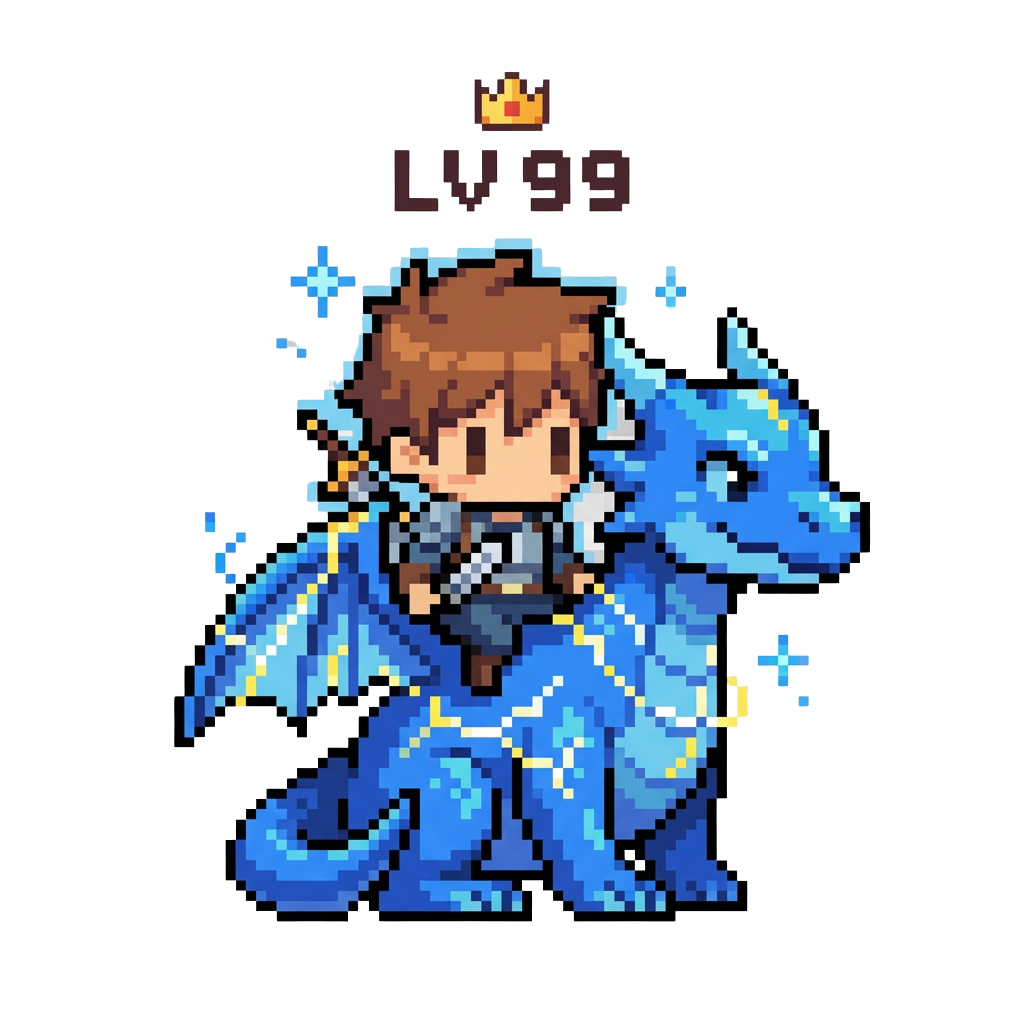
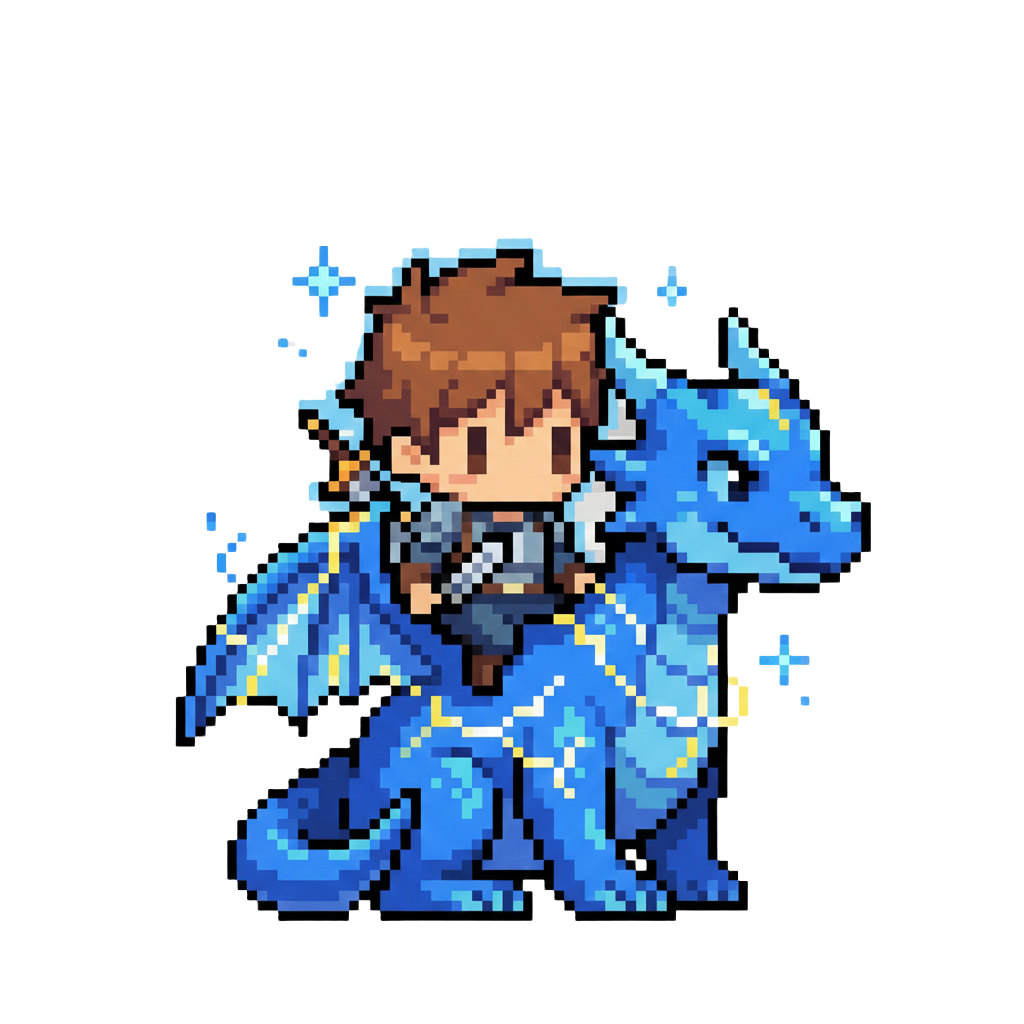
Fix: Lv99ドラゴン誕生時に主人公の装備(靴等)が残る不具合を修正し、専用セリフの出現率を100%に調整

diff --git a/script.js b/script.js
@@ -1298,13 +1298,11 @@ function updateDragonUI() {
     // --- 1. 状態フラグの同期 ---
     if (level < 70) {
         dragon.hatched = false;
-    } else if (level === 99) {
-        dragon.obtained = true;
+        // 自動で obtained = false にする処理も、セーブデータの整合性のために削除するか慎重に扱う。
+        // ここでは、Lv70未満で孵化しているのはおかしいので戻すだけに留める。
     }
 
     // --- 2. クラス管理（ここが重要！） ---
-    // CSSの「.dragon-active」が効くように、ここでクラスを付け替えます。
-    // JS側での style.width や style.bottom の直接指定はすべて削除しました。
     if (wrapper) {
         if (level >= 99 && dragon.hatched) {
             wrapper.classList.add('dragon-active');
@@ -1314,16 +1312,25 @@ function updateDragonUI() {
     }
 
     // --- 3. ビジュアル基本設定 ---
-    if (playerSprite) {
+    const layersContainer = document.querySelector('.player-layers-container');
+
+    if (layersContainer) {
         if (level >= 99 && dragon.hatched) {
-            playerSprite.classList.add('hidden');
+            layersContainer.classList.add('hidden');
         } else {
-            playerSprite.classList.remove('hidden');
+            layersContainer.classList.remove('hidden');
         }
     }
 
-    // --- 4. 各レベル帯の表示ロジック（高い順に判定） ---
+    // --- 4. 各レベル帯の表示ロジック ---
     if (level >= 99) {
+        // dragon.obtained のチェックを確実にする
+        if (!dragon.obtained) {
+            // 万が一持っていないままLv99になった場合の救済
+            dragon.obtained = true;
+        }
+
+        companion.classList.remove('hidden');
         if (!dragon.hatched) {
             executeDragonBirthAnimation();
             return;
@@ -1332,12 +1339,22 @@ function updateDragonUI() {
         dragonImg.src = `./assets/opening_movie/${type}_dragon.png`;
     }
     else if (level >= 90) {
-        dragonImg.src = './assets/opening_movie/egg2.png';
-        if (messageEl) messageEl.textContent = "なんか最近、卵が割れそう・・・・？";
+        if (dragon.obtained) {
+            dragonImg.src = './assets/opening_movie/egg2.png';
+            companion.classList.remove('hidden');
+            if (messageEl) messageEl.textContent = "なんか最近、卵が割れそう・・・・？";
+        } else {
+            companion.classList.add('hidden');
+        }
     }
     else if (level >= 80) {
-        dragonImg.src = './assets/opening_movie/egg2.png';
-        if (messageEl) messageEl.textContent = "あれ？ 卵に変化が……";
+        if (dragon.obtained) {
+            dragonImg.src = './assets/opening_movie/egg2.png';
+            companion.classList.remove('hidden');
+            if (messageEl) messageEl.textContent = "あれ？ 卵に変化が……";
+        } else {
+            companion.classList.add('hidden');
+        }
     }
     else if (level >= 70) {
         if (dragon.obtained) {
@@ -1349,7 +1366,7 @@ function updateDragonUI() {
     }
     else {
         companion.classList.add('hidden');
-        updateCharacterMessage(true);
+        // updateCharacterMessage(true); // 元のコードにあったが、無限ループの危険があるので一旦除去検討
     }
 }
 
@@ -1429,6 +1446,11 @@ function executeDragonBirthAnimation() {
         companion.classList.remove('birth-shake');
 
         if (playerSprite) playerSprite.classList.add('hidden');
+
+        // 勇者のコンテナごと非表示にする（装備や靴が残らないように）
+        const layersContainer = document.querySelector('.player-layers-container');
+        if (layersContainer) layersContainer.classList.add('hidden');
+
         const wrapper = document.querySelector('.character-wrapper');
         if (wrapper) wrapper.classList.add('dragon-active');
 
@@ -3335,8 +3357,17 @@ function updateCharacterMessage(force = false) {
         const lv = gameData?.player?.level || 1;
         console.log(`🎮 現在のレベル: ${lv}`);
 
+        // ★ Lv99：伝説のドラゴンライダー
+        if (lv >= 99 && gameData.dragon.hatched) {
+            // 普通のメッセージはクリアして、特別なセリフだけに絞る（確実に出すため）
+            messages.length = 0;
+            messages.push("風が...ボクたちを祝ってくれているみたいだね！");
+            messages.push("君と共にここまで来られたこと、誇りに思うよ。");
+            messages.push("この広い空のどこまでも、君と一緒に行こう！");
+            console.log("✨ Lv99 ドラゴンライダー専用メッセージモード");
+        }
         // ★ Lv60以上：龍がすぐ近くにいる雰囲気
-        if (lv >= 60) {
+        else if (lv >= 60) {
             messages.push("すぐ近くに誰かいる気がする……温かくて、優しい気配だ");
             messages.push("この光……何かボクを まもってくれてるみたい");
             messages.push("君のレベルなら、もしかしたら『あの存在』に会えるかもしれないね…");
